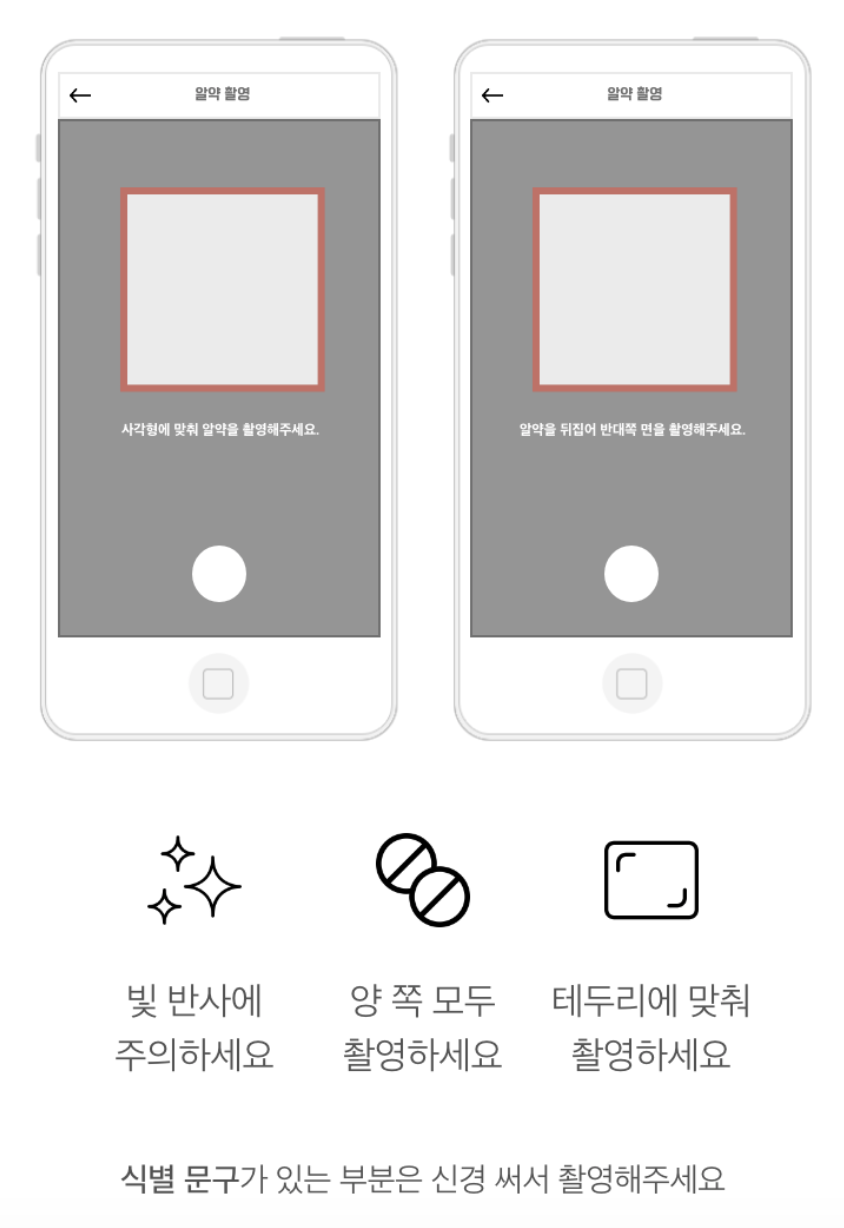
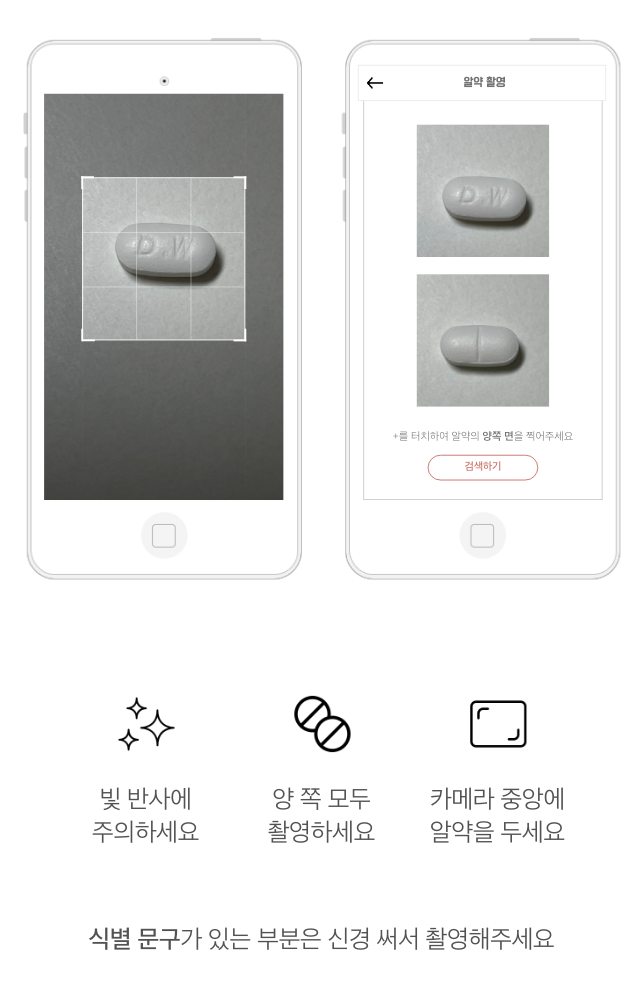
photo screen text button수정 및 photo guide 변경

diff --git a/Client/Screen/PhotoScreen.js b/Client/Screen/PhotoScreen.js
@@ -70,20 +70,10 @@ export function PhotoScreen(){
                 </TouchableOpacity>
             </View>
             <View style={styles.TextView}>
-                <Text style={styles.text}>해당 사진으로 검색하시겠습니까?</Text>
+                <Text style={styles.text}>+를 터치하여 알약의 <Text style={styles.highlight}>양쪽 면</Text>을 찍어주세요</Text>
             </View>
                 
             <View style={styles.ButtonView}>
-                <TouchableOpacity 
-                    style={styles.Button}
-                    onPress={()=>{
-                        navigation.reset({
-                            index: 0,
-                            routes: [{name: "PhotoGuide"}]
-                        })
-                }}>
-                    <Text style={styles.ButtonText}>다시 찍기</Text>
-                </TouchableOpacity>
                 <TouchableOpacity 
                     style={styles.Button}
                     onPress={()=>{
@@ -128,11 +118,11 @@ const styles = StyleSheet.create({
         justifyContent : "center",
     },
     text : {
-        width: 262,
-        height: 24,
+        width: 266,
+        height: 19,
         // fontFamily: "AppleSDGothicNeo",
-        fontSize: 20,
-        fontWeight: "500",
+        fontSize: 16,
+        fontWeight: "200",
         fontStyle: "normal",
         letterSpacing: 0,
         textAlign: "center",
@@ -147,27 +137,38 @@ const styles = StyleSheet.create({
     Button : {
         alignItems: "center",
         justifyContent : "center",
-        width: 140,
-        height: 43,
-        borderRadius: 22,
+        width: 240,
+        height: 53,
+        borderRadius: 32,
         backgroundColor: "#ffffff",
         borderStyle: "solid",
-        borderWidth: 1,
+        borderWidth: 2,
         borderColor: "#c86e65",
         margin : 10
     },
     ButtonText : {
-        width: 96,
-        height: 21,
+        width: 82,
         // fontFamily: "AppleSDGothicNeo",
-        fontSize: 18,
-        fontWeight: "500",
+        fontSize: 22,
+        fontWeight: "800",
         fontStyle: "normal",
-        letterSpacing: -0.36,
+        letterSpacing: -0.48,
         textAlign: "center",
         color: "#c86e65"
 
     },
+    highlight : {
+        width: 266,
+        height: 19,
+        // fontFamily: "AppleSDGothicNeo",
+        fontSize: 16,
+        fontWeight: "500",
+        fontStyle: "normal",
+        letterSpacing: 0,
+        textAlign: "center",
+        color: "#707070"
+
+    }
 })
 
 export default PhotoScreen;

diff --git a/Client/Screen/PhotoGuideScreen.js b/Client/Screen/PhotoGuideScreen.js
@@ -50,15 +50,15 @@ const styles = StyleSheet.create({
         padding : 50
     },
     Button : {
-        alignItems: 'center',
-        justifyContent : 'center',
-        width: 193,
-        height: 56,
-        borderRadius: 28,
+        alignItems: "center",
+        justifyContent : "center",
+        width: 240,
+        height: 53,
+        borderRadius: 32,
         backgroundColor: "#ffffff",
         borderStyle: "solid",
         borderWidth: 2,
-        borderColor: "#c86e65"
+        borderColor: "#c86e65",
     },
     ButtonText : {
         width: 82,
